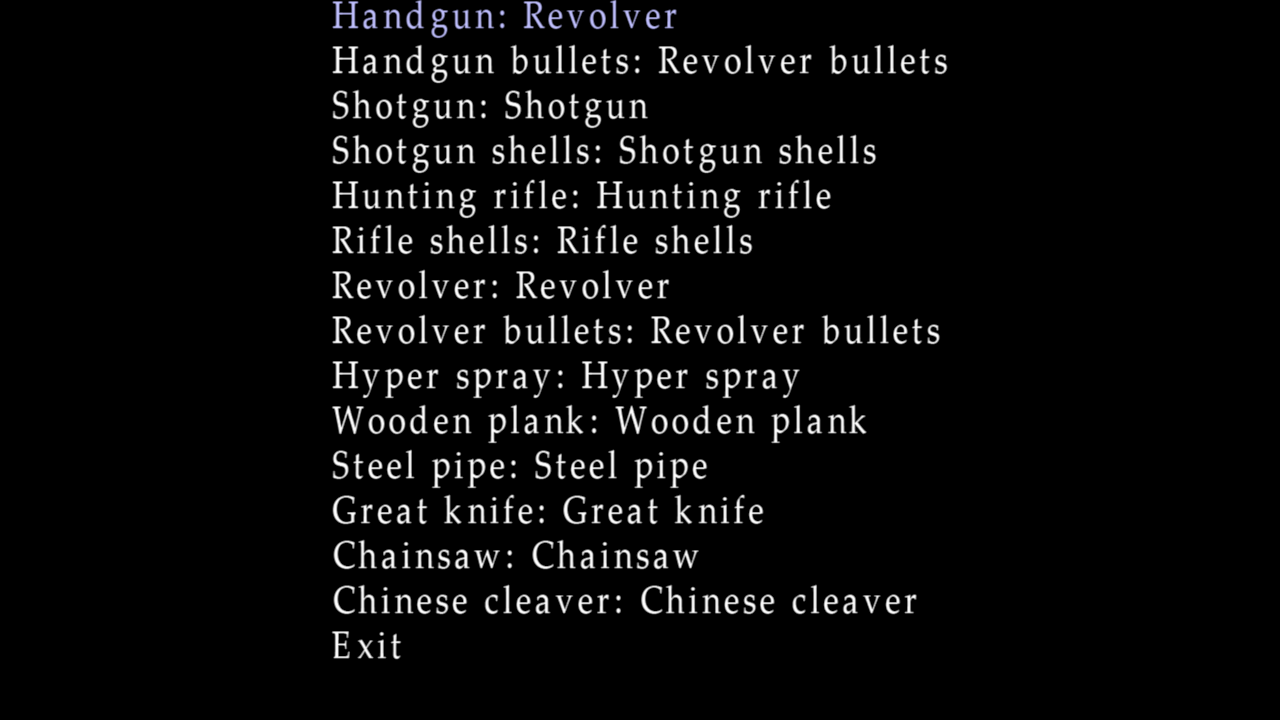
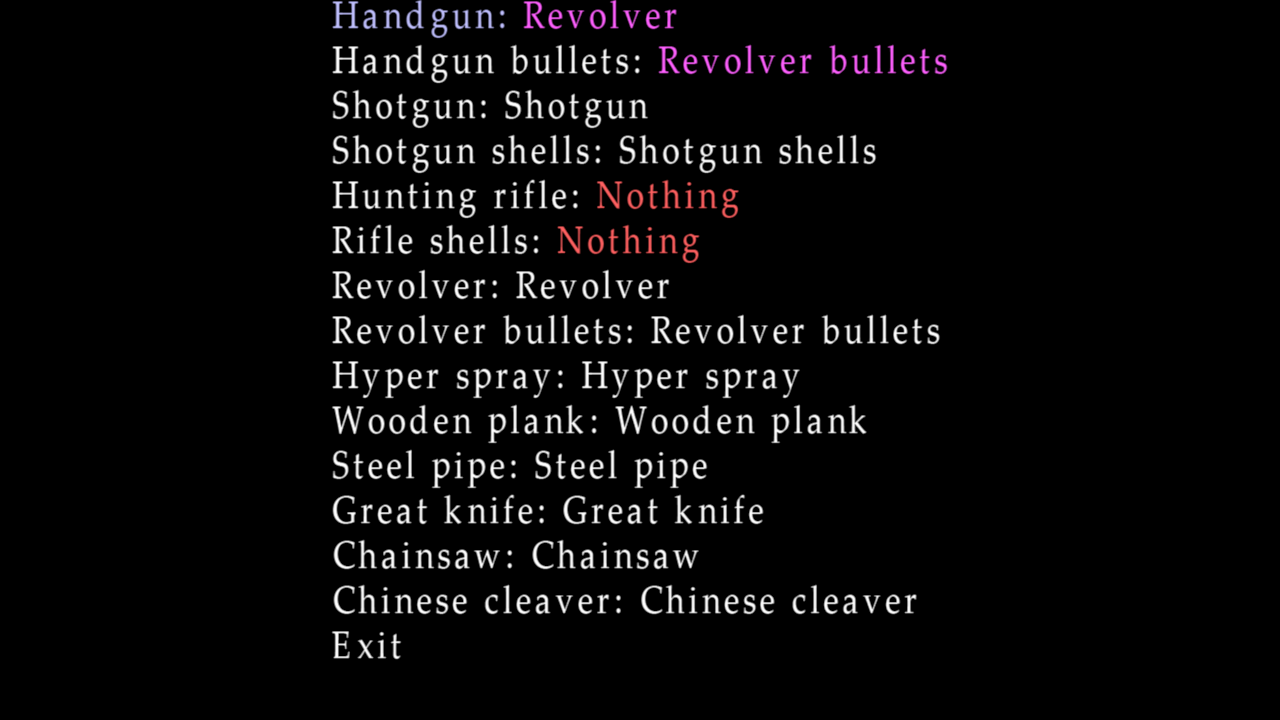
Update readme to reflect changes to item mapping

Changed region(s): [[0.4062, 0.0, 0.75, 0.1222], [0.4375, 0.2444, 0.6562, 0.3667]]

diff --git a/README.md b/README.md
@@ -129,9 +129,6 @@ screenshot above, I've mapped the handgun to the revolver and handgun bullets to
 picking up the handgun will give me the revolver and picking up handgun bullets will give me revolver bullets - in
 other words, this basically replaces the handgun with the revolver in James' scenario.
 
-It's also possible to map an item to nothing, effectively disabling pickups of that item. No message is displayed when
-you pick up a disabled item.
-
 **Note**: Be aware that the actual 3D model of the item in the world will not change. However, when you pick them item
 up, you will still get the mapped item you selected instead of the item you see, and the message will reflect that.
 For example, here's a screenshot from where I mapped the cleaver to the wooden plank. We still see the cleaver on the
@@ -140,9 +137,17 @@ my inventory.
 
 ![Cleaver mapped to plank](assets/knife_cleaver_plank.png)
 
-Also note that I haven't bothered to prevent mapping ammo items to weapons, meaning you can use this to get multiple
-pickups of the same weapon. For melee weapons, this is harmless but pointless. For guns, this will add to the number of
-bullets loaded in the gun beyond the normal maximum, which may have interesting and/or amusing applications.
+It's also possible to map an item to nothing, effectively disabling pickups of that item. For example, in the menu
+screenshot above, the hunting rifle and rifle shells are mapped to nothing, meaning I won't be able to obtain either of
+those items. Like normal mappings, the 3D model of the item will still appear in the world, but when you pick it up,
+there will be no message and nothing will be added to your inventory.
+
+I haven't bothered to prevent mapping ammo items to weapons, meaning you can use this to get multiple pickups of the
+same weapon. For melee weapons, this is harmless but pointless. For guns, this will add to the number of bullets loaded
+in the gun beyond the normal maximum, which may have interesting and/or amusing applications.
+
+Lastly, note that the inventory editor is not affected by item mapping. If you give yourself a particular item in the
+inventory editor, you will get that exact item even if you have it mapped to something else in this menu.
 
 ### Settings
 
